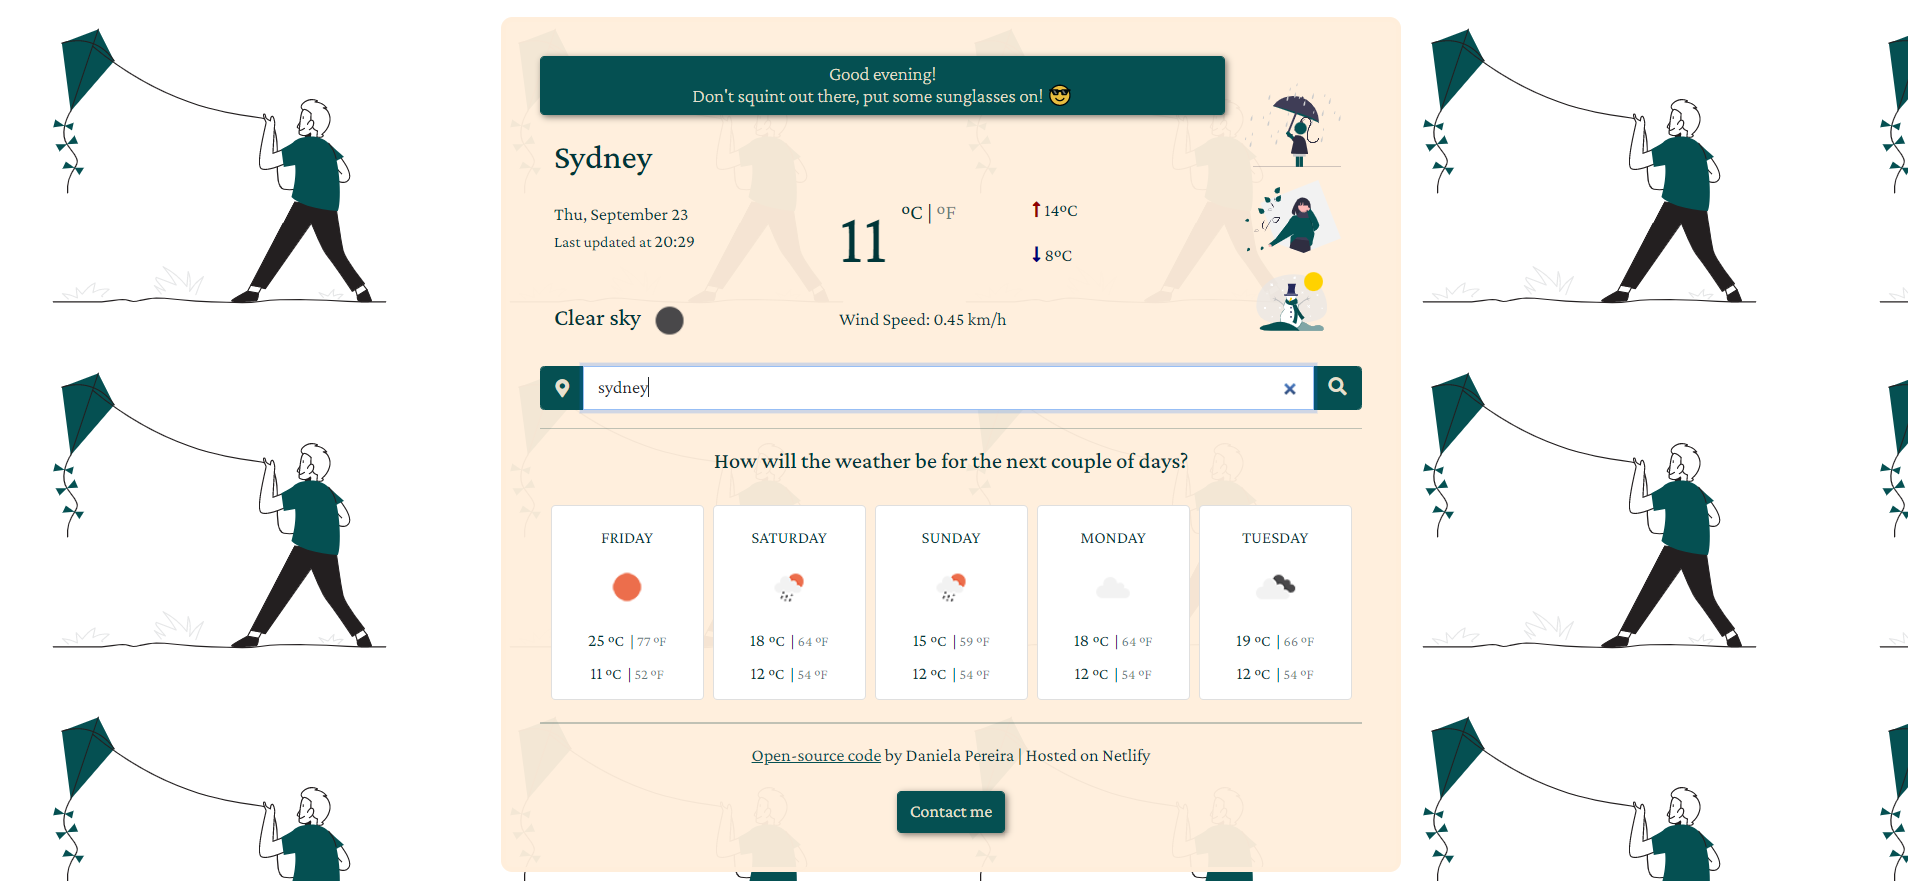
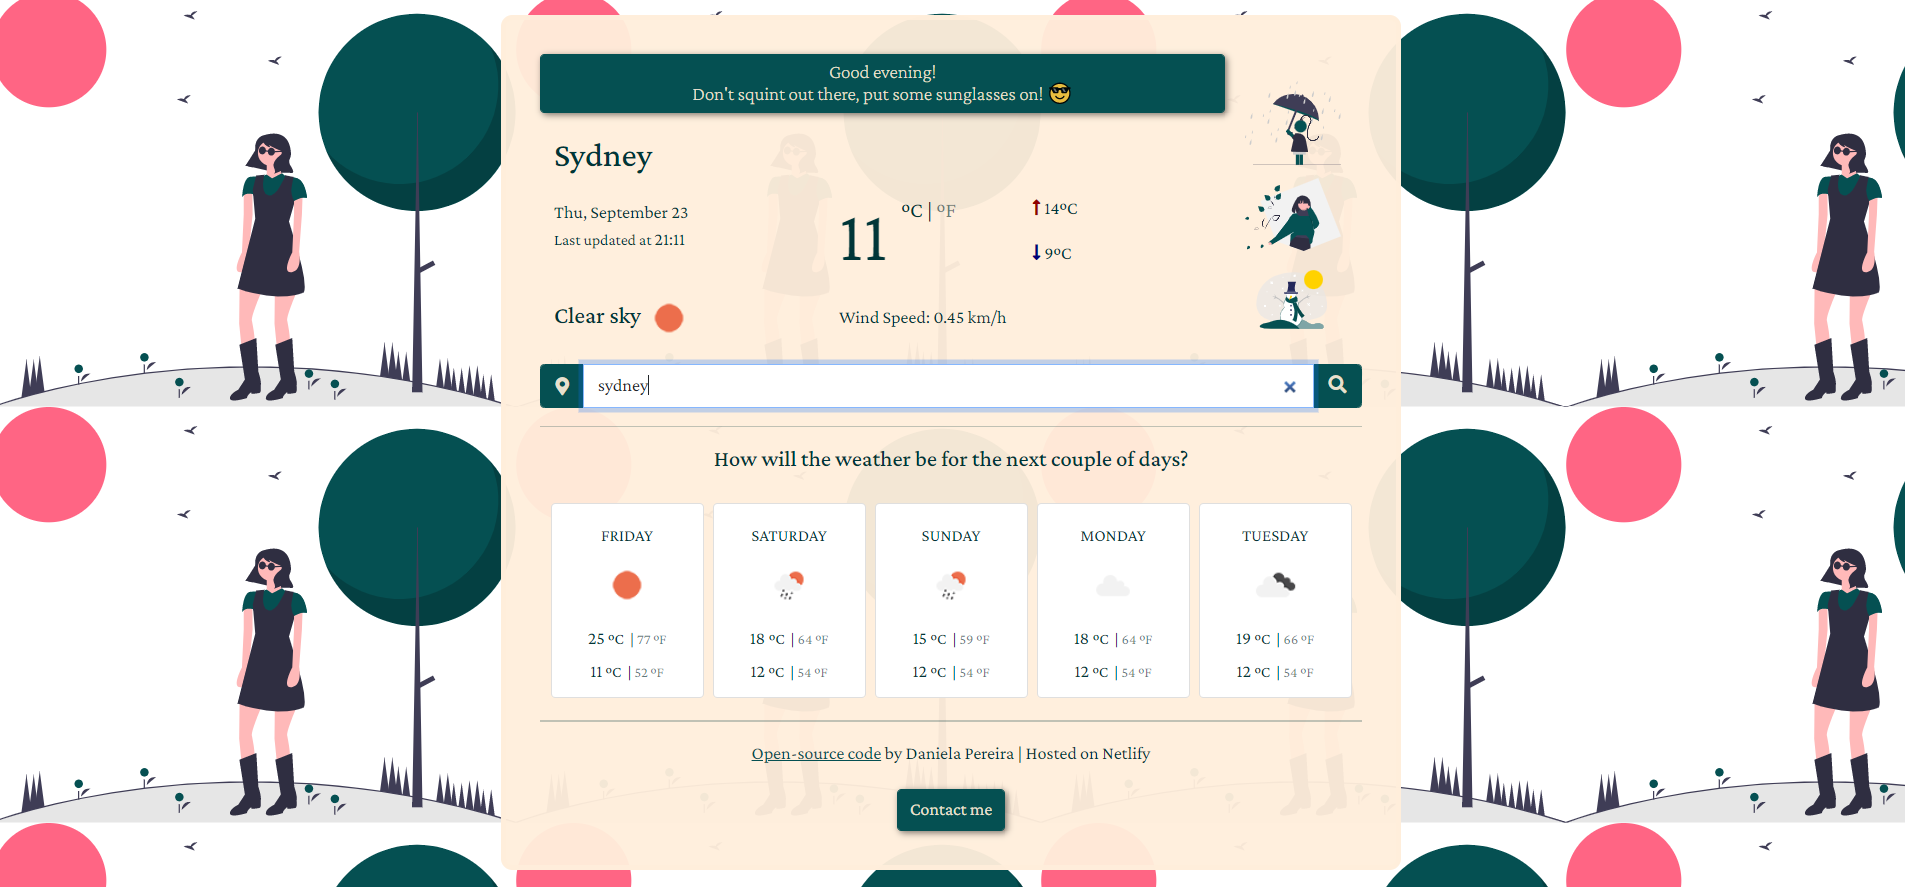
Changed background images

diff --git a/src/index.js b/src/index.js
@@ -144,7 +144,7 @@ function showWeather(response) {
   let tip = document.querySelector("#tip");
   if (currentWeather === "clear sky") {
     tip.innerHTML = "Don't squint out there, put some sunglasses on! 😎";
-    document.body.style.backgroundImage = "url('images/backg__kite.svg')";
+    document.body.style.backgroundImage = "url('images/backg_nature.svg')";
   } else if (
     currentWeather === "few clouds" ||
     currentWeather === "scattered clouds" ||
@@ -152,7 +152,7 @@ function showWeather(response) {
     currentWeather === "overcast clouds"
   ) {
     tip.innerHTML = "It's a good day for an outdoor activity 🤸♀";
-    document.body.style.backgroundImage = "url('images/backg__outdoor.svg')";
+    document.body.style.backgroundImage = "url('images/backg__kite.svg')";
   } else if (
     currentWeather === "shower rain" ||
     currentWeather === "light rain" ||
